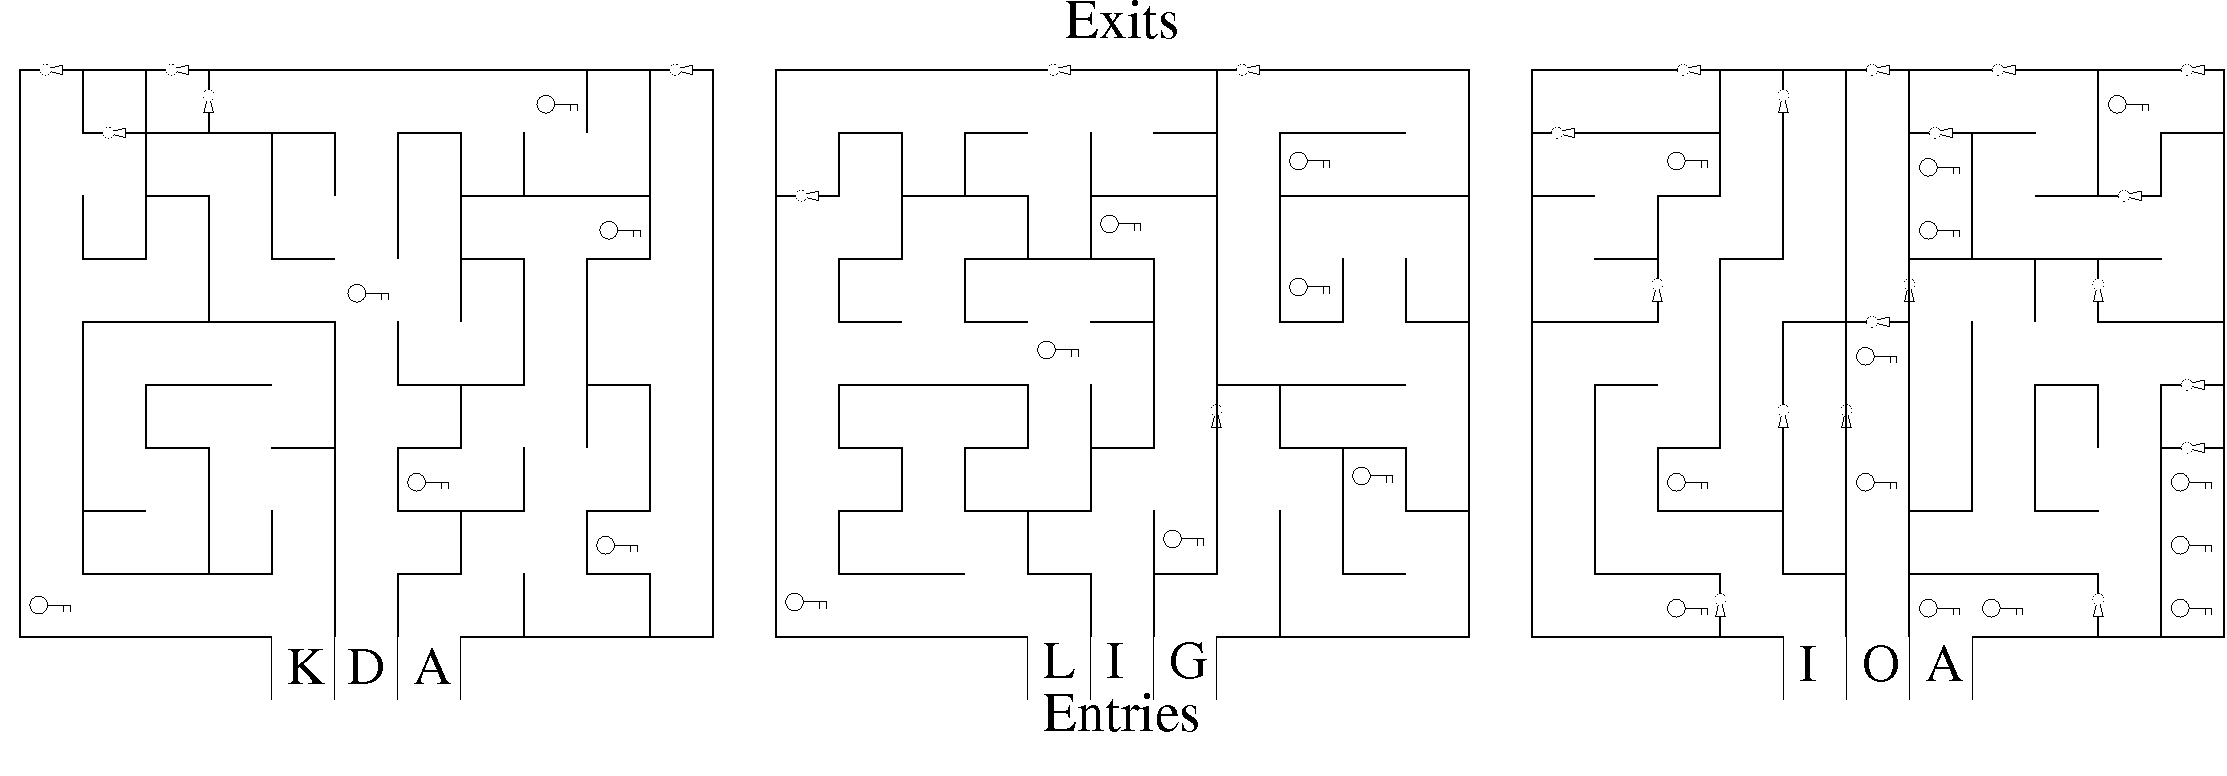
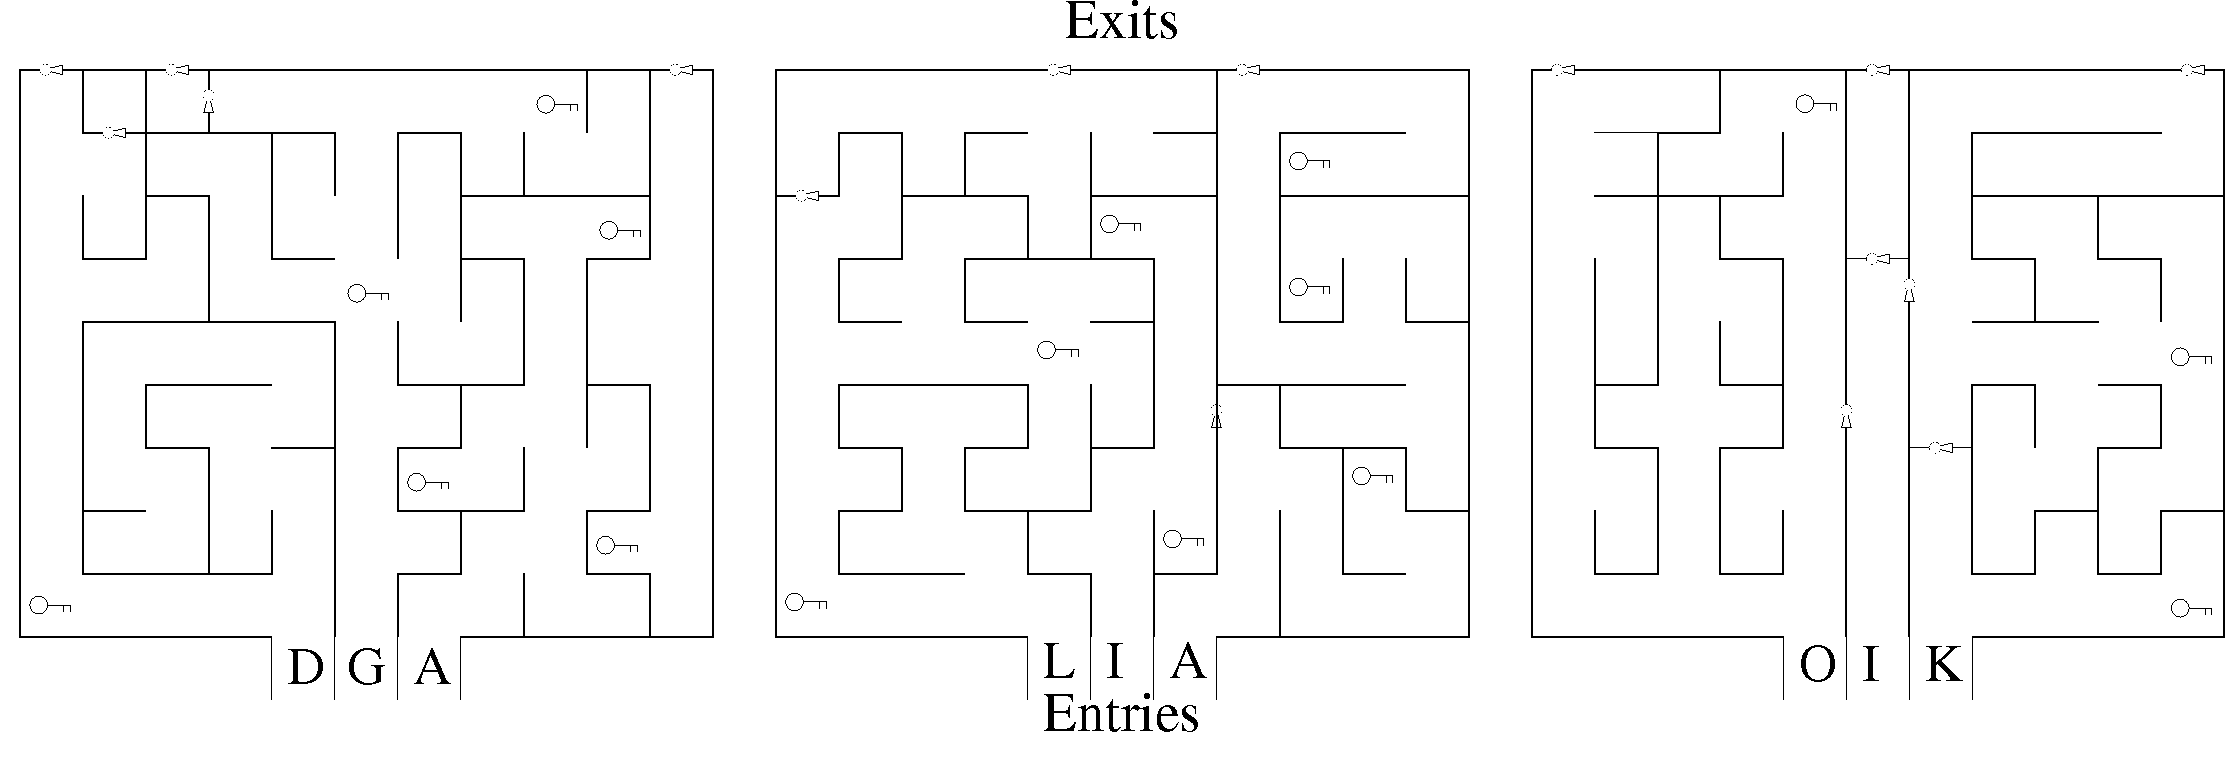
Labyrinth geaendert.

diff --git a/app_files/riddle_data.js b/app_files/riddle_data.js
@@ -57,10 +57,10 @@ var quiz_data = {
 		"next": "laby"
     },
 	"laby": {
-		"password" : "teil",
-		"password_hash": "hCg7NwOCloA=",
+		"password" : "leute",
+		"password_hash": "NHnYx4IKaKcuOw==",
 		"quiz_title" : "Rätsel 8: Das Labyrinth",
-		"text": "Hinweis: Die Lösung hat vier Buchstaben.",
+		"text": "Hinweis: Die Lösung hat fünf Buchstaben.",
 		"image": "laby3.png",
 		"next" : "done"
 	},
